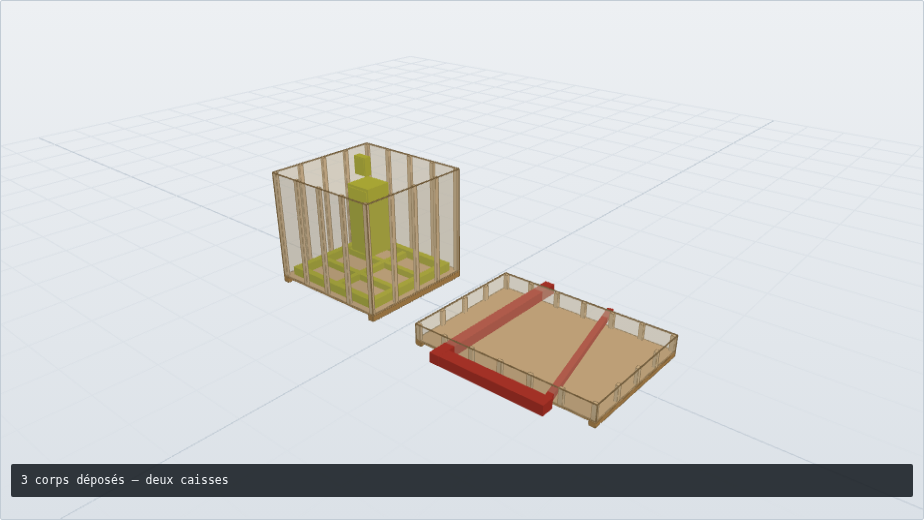
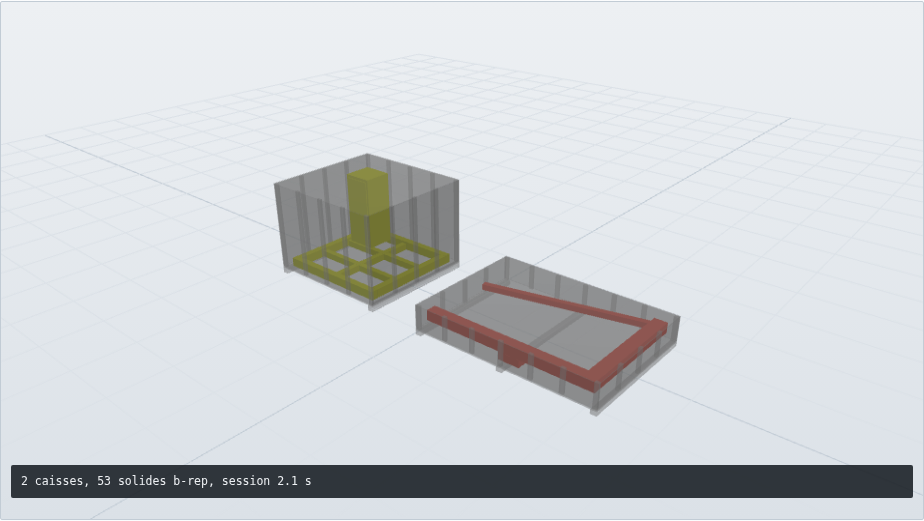
[+] Showed the Zoo-generated split by default

diff --git a/public/app.js b/public/app.js
@@ -304,9 +304,26 @@ function dessinerDecoupe(d, pose) {
  * volontaire — chaque transformation rejouée est une occasion de la rejouer de
  * travers, et on en a déjà corrigé trois.
  */
-async function afficherDecoupe(r) {
+async function afficherDecoupe(r, gltfNom) {
   viderGroupe();
-  dessinerCaisse(r.boxes);
+
+  if (gltfNom) {
+    // Géométrie b-rep réelle, sortie du moteur Zoo.
+    const gltf = await chargeurGltf.loadAsync(`/out/${gltfNom}`);
+    gltf.scene.rotation.x = Math.PI / 2;
+    gltf.scene.traverse((o) => {
+      if (!o.isMesh || !o.material) return;
+      const c = o.material.color;
+      const clair = c ? (c.r + c.g + c.b) / 3 > 0.6 : true;
+      o.material.transparent = clair;
+      o.material.opacity = clair ? 0.3 : 1;
+      o.material.depthWrite = !clair;
+      o.material.side = THREE.DoubleSide;
+    });
+    groupe.add(gltf.scene);
+  } else {
+    dessinerCaisse(r.boxes);
+  }
 
   // Une couleur par caisse : la première garde le jaune machine, les suivantes
   // s'en détachent — c'est ce qui rend la répartition lisible d'un coup d'œil.
@@ -518,12 +535,20 @@ $('formulaire').addEventListener('submit', async (e) => {
     $('panneau-vue').hidden = false;
     $('panneau-hypotheses').hidden = false;
     $('generer').disabled = false;
-    $('decouper').hidden = !etude.study.decoupe;
+    $('generer').textContent = etude.study.decoupe
+      ? `Générer les ${etude.study.decoupe.caisses.length} caisses (Zoo)`
+      : 'Générer la caisse (Zoo)';
 
     rendreTableau();
-    // La pose montrée est celle qu'on recommande. Afficher la machine debout
-    // pendant qu'on explique qu'il faut la coucher vide le propos.
-    await afficherPose(etude.study.best?.pose ?? etude.study.otherMode?.pose ?? 'A', null);
+    // La vue montre ce que l'outil recommande. Si un découpage est proposé,
+    // c'est **lui** la recommandation : afficher une caisse unique pendant que
+    // le bandeau parle de trois caisses laisse croire que rien ne se passe.
+    if (etude.study.decoupe) {
+      const r = await poster('/api/decoupe', saisie());
+      await afficherDecoupe(r);
+    } else {
+      await afficherPose(etude.study.best?.pose ?? etude.study.otherMode?.pose ?? 'A', null);
+    }
 
     $('etat-calcul').textContent =
       `${etude.vertices.toLocaleString('fr-FR')} sommets, emprises et verdicts en ${etude.ms} ms. ` +
@@ -534,20 +559,27 @@ $('formulaire').addEventListener('submit', async (e) => {
   }
 });
 
-$('decouper').addEventListener('click', async () => {
-  $('vue-etat').textContent = 'découpage…';
-  try {
-    const r = await poster('/api/decoupe', saisie());
-    await afficherDecoupe(r);
-    $('vue-etat').textContent = `${r.decoupe.caisses.length} caisses — ${r.decoupe.corpsTotal} corps répartis`;
-    $('telechargements').innerHTML = '';
-  } catch (err) {
-    $('vue-etat').textContent = `échec : ${err.message}`;
-  }
-});
-
 $('generer').addEventListener('click', async () => {
   $('vue-etat').textContent = 'session Zoo en cours…';
+
+  // Un découpage proposé, ce sont N caisses à construire — pas une.
+  if (etude?.study.decoupe) {
+    try {
+      const r = await poster('/api/scene-decoupe', saisie());
+      const local = await poster('/api/decoupe', saisie());
+      await afficherDecoupe(local, r.gltf);
+      $('vue-etat').textContent =
+        `${r.caisses} caisses, ${r.solides} solides b-rep, session ${(r.sessionMs / 1000).toFixed(1)} s`;
+      $('telechargements').innerHTML = [
+        r.step ? `<a class="bouton" href="/out/${r.step}" download>STEP — les ${r.caisses} caisses</a>` : '',
+        r.gltf ? `<a class="bouton" href="/out/${r.gltf}" download>glTF — la scène</a>` : '',
+      ].join(' ');
+    } catch (err) {
+      $('vue-etat').textContent = `échec : ${err.message}`;
+    }
+    return;
+  }
+
   try {
     const r = await poster('/api/scene', { ...saisie(), pose: poseCourante });
     await afficherPose(r.pose, r.gltf);

diff --git a/src/serveur.ts b/src/serveur.ts
@@ -259,6 +259,75 @@ async function sourceBrep(mesh: string): Promise<string | undefined> {
   return undefined;
 }
 
+/**
+ * Les N caisses du découpage, construites en b-rep par le moteur.
+ *
+ * Elles sortent en un seul STEP : c'est l'expédition complète, telle qu'elle
+ * partirait. La machine n'y est pas — ses pièces sont des maillages, et un
+ * maillage importé n'est pas réexportable (FEEDBACK.md #8). On exporte donc les
+ * caisses, et le viewer y pose les pièces.
+ */
+async function sceneDecoupeZoo(body: EtudeBody & { caisses?: number }) {
+  const { EngineSession } = await import('./engine/session.js');
+  const { createBoxesBatched } = await import('./engine/scene.js');
+
+  const data = await etude(body);
+  const d = data.study.decoupe;
+  if (!d) throw new Error('Aucun découpage à générer : une pose passe déjà.');
+
+  const boxes = sceneDecoupe(d).boxes;
+  const t0 = performance.now();
+  const session = await EngineSession.open();
+
+  try {
+    const ids = await createBoxesBatched(session, boxes);
+
+    await session.sendBatch(
+      boxes
+        .map((b, i) => (isBlocking(b.name) ? ids[i]! : undefined))
+        .filter((id): id is string => id !== undefined)
+        .map((object_id) => ({
+          type: 'object_set_material_params_pbr' as const,
+          object_id,
+          color: { r: 0.72, g: 0.45, b: 0.16, a: 1 },
+          metalness: 0.02,
+          roughness: 0.9,
+          ambient_occlusion: 0.5,
+        }))
+    );
+
+    await mkdir('out', { recursive: true });
+
+    const sortir = async (format: 'step' | 'gltf', nom: string) => {
+      const { resp } = await session.send(
+        {
+          type: 'export',
+          entity_ids: ids,
+          format:
+            format === 'step'
+              ? { type: 'step', coords: ZOO_COORDS, created: undefined }
+              : { type: 'gltf', storage: 'embedded', presentation: 'compact' },
+        },
+        600_000
+      );
+      if (resp.type !== 'export' || !resp.data.files[0]) return undefined;
+      await writeFile(join('out', nom), Buffer.from(resp.data.files[0].contents as unknown as Uint8Array));
+      return nom;
+    };
+
+    return {
+      caisses: d.caisses.length,
+      solides: ids.length,
+      step: await sortir('step', 'decoupe.step'),
+      gltf: await sortir('gltf', 'decoupe.gltf'),
+      sessionMs: session.elapsedMs(),
+      totalMs: Math.round(performance.now() - t0),
+    };
+  } finally {
+    await session.close();
+  }
+}
+
 async function scene(body: EtudeBody & { pose?: string; brep?: string }) {
   // Import tardif : ouvrir une session coûte, on ne charge le transport que
   // lorsqu'une scène est réellement demandée.
@@ -602,6 +671,8 @@ const server = createServer((req, res) => {
       if (req.method === 'GET' && url === '/api/maillages') return json(res, 200, { meshes: await meshes() });
       if (req.method === 'POST' && url === '/api/etude') return json(res, 200, await etude((await readBody(req)) as EtudeBody));
       if (req.method === 'POST' && url === '/api/scene') return json(res, 200, await scene((await readBody(req)) as never));
+      if (req.method === 'POST' && url === '/api/scene-decoupe')
+        return json(res, 200, await sceneDecoupeZoo((await readBody(req)) as never));
       if (req.method === 'POST' && url === '/api/decoupe') return json(res, 200, await decoupe((await readBody(req)) as never));
       if (req.method === 'POST' && url === '/api/conversion') return json(res, 200, await conversion((await readBody(req)) as never));
       if (req.method === 'GET') return await serveStatic(url, res);

diff --git a/public/index.html b/public/index.html
@@ -127,7 +127,6 @@
         <div class="actions">
           <button class="bouton bouton-primaire" id="calculer" type="submit">Étudier</button>
           <button class="bouton" id="generer" type="button" disabled>Générer la caisse (Zoo)</button>
-          <button class="bouton" id="decouper" type="button" hidden>Voir les deux caisses</button>
         </div>
         <p class="actions-note" id="etat-calcul"></p>
       </form>
